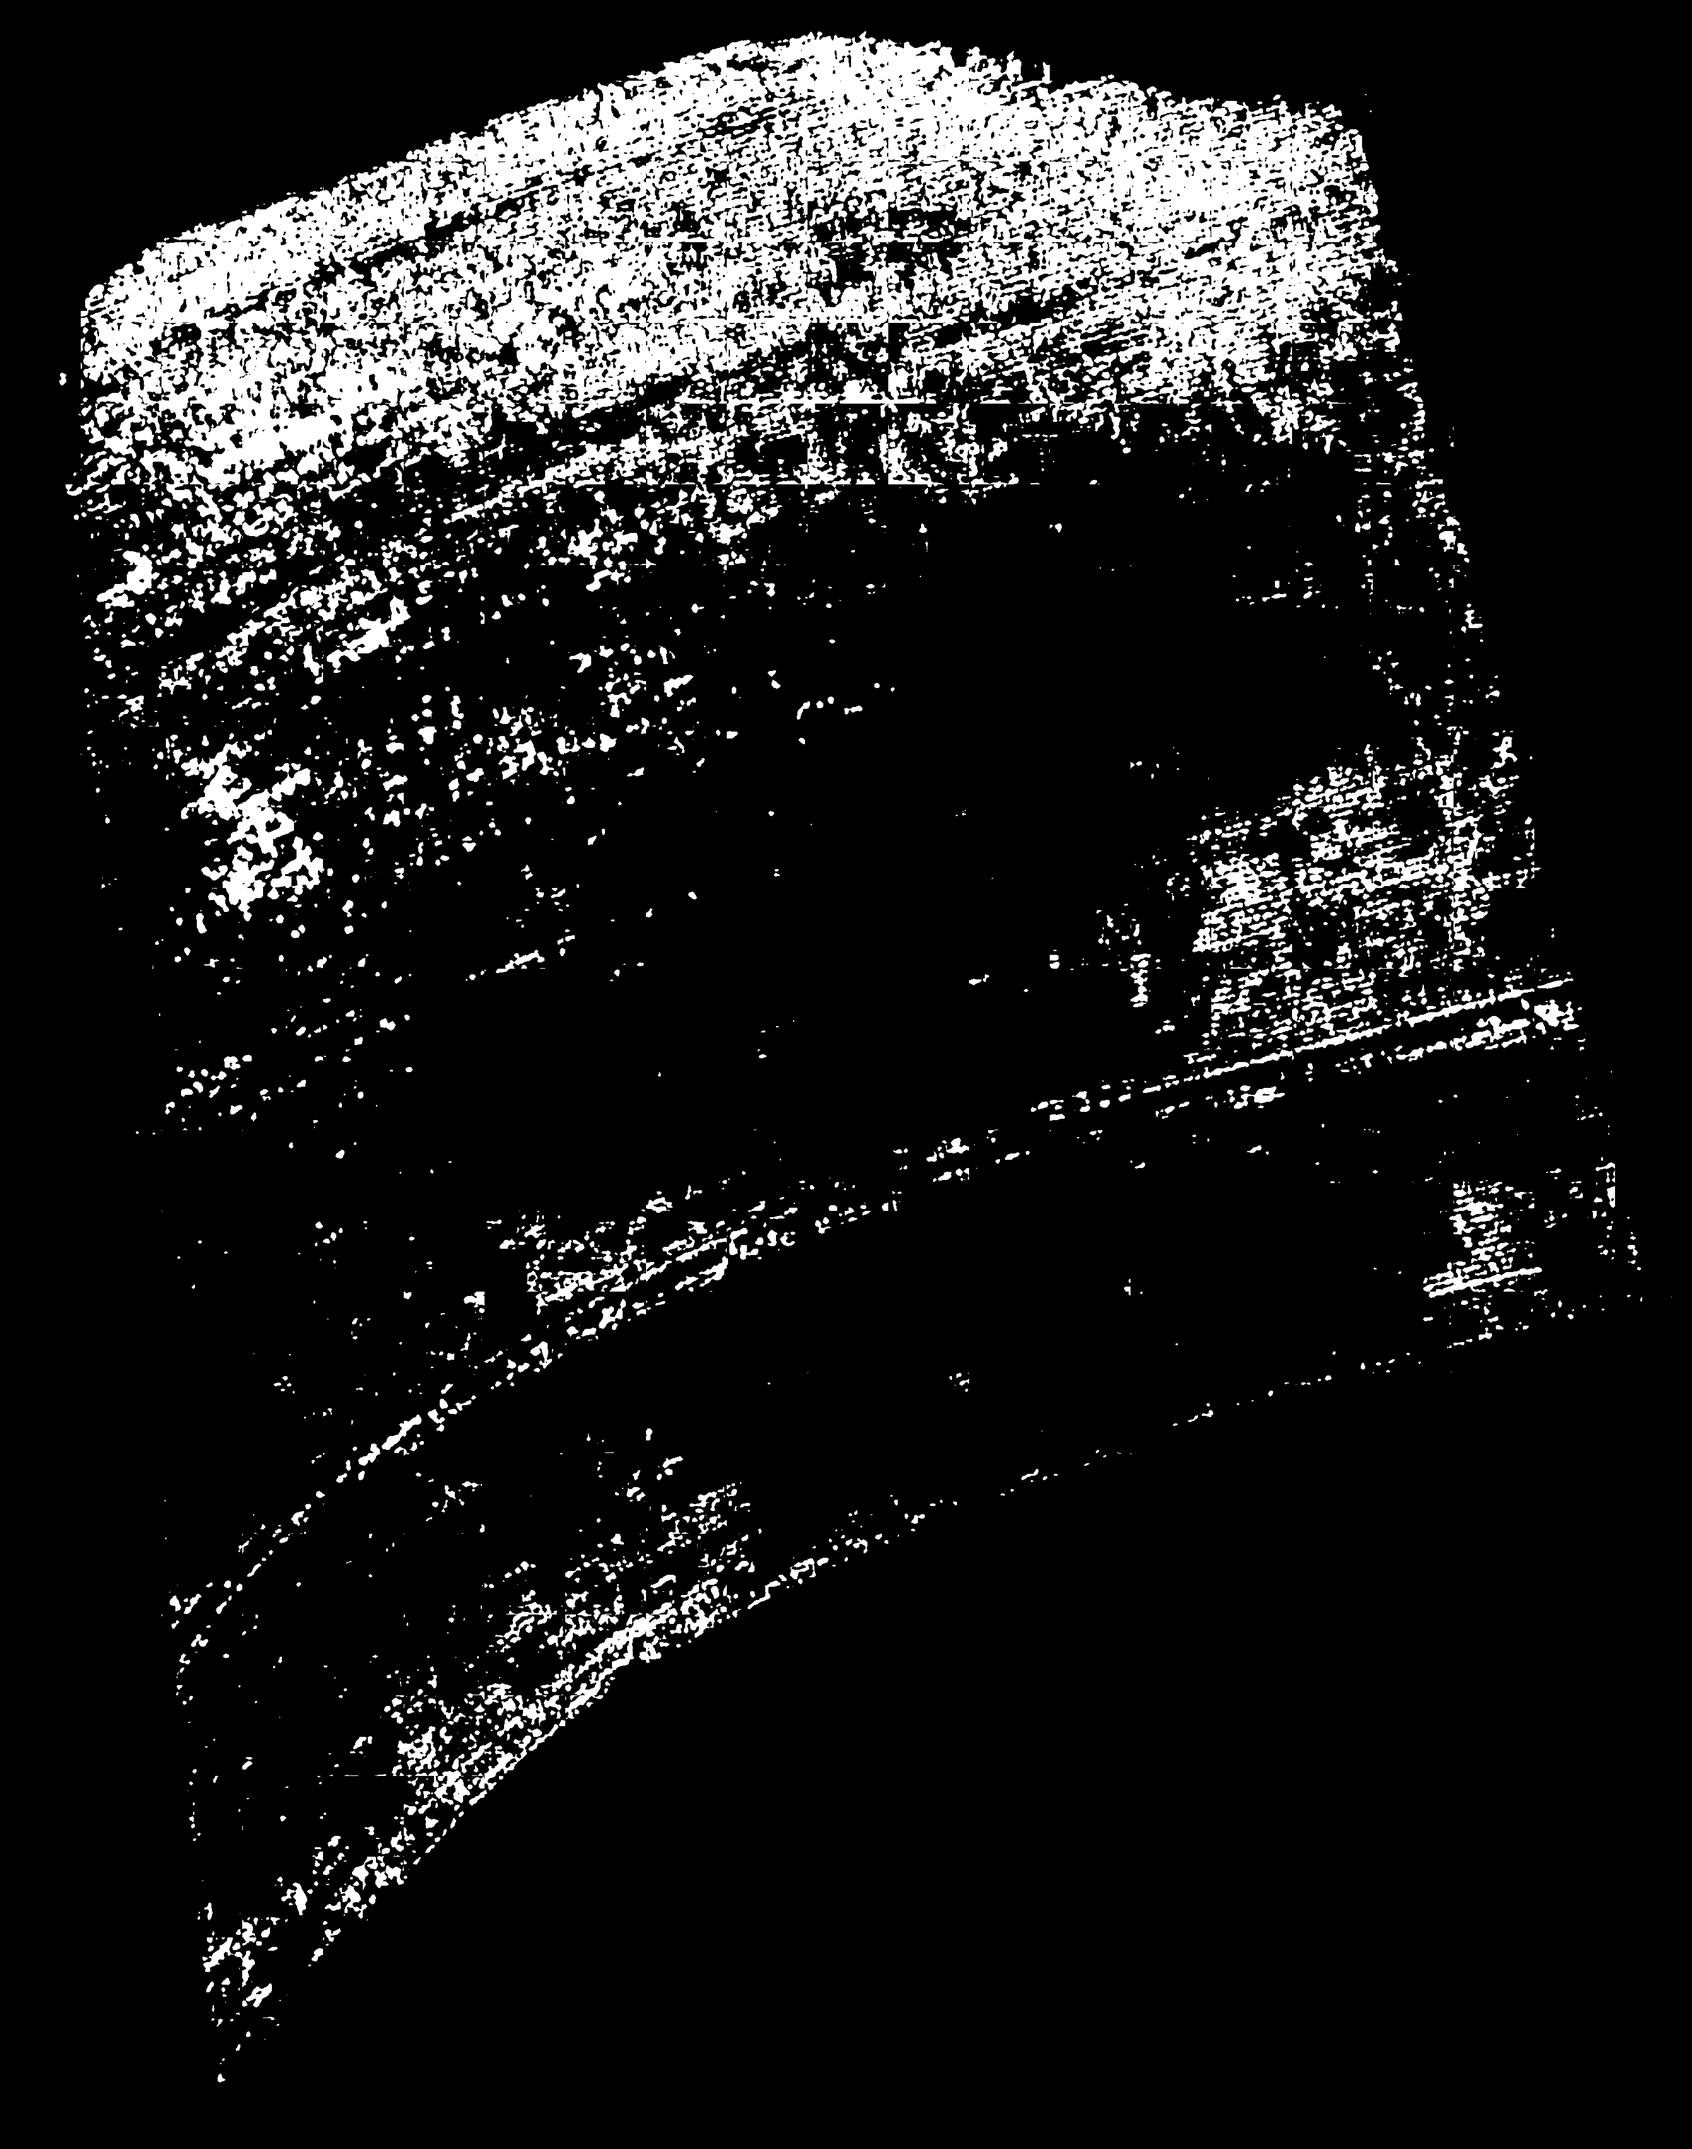
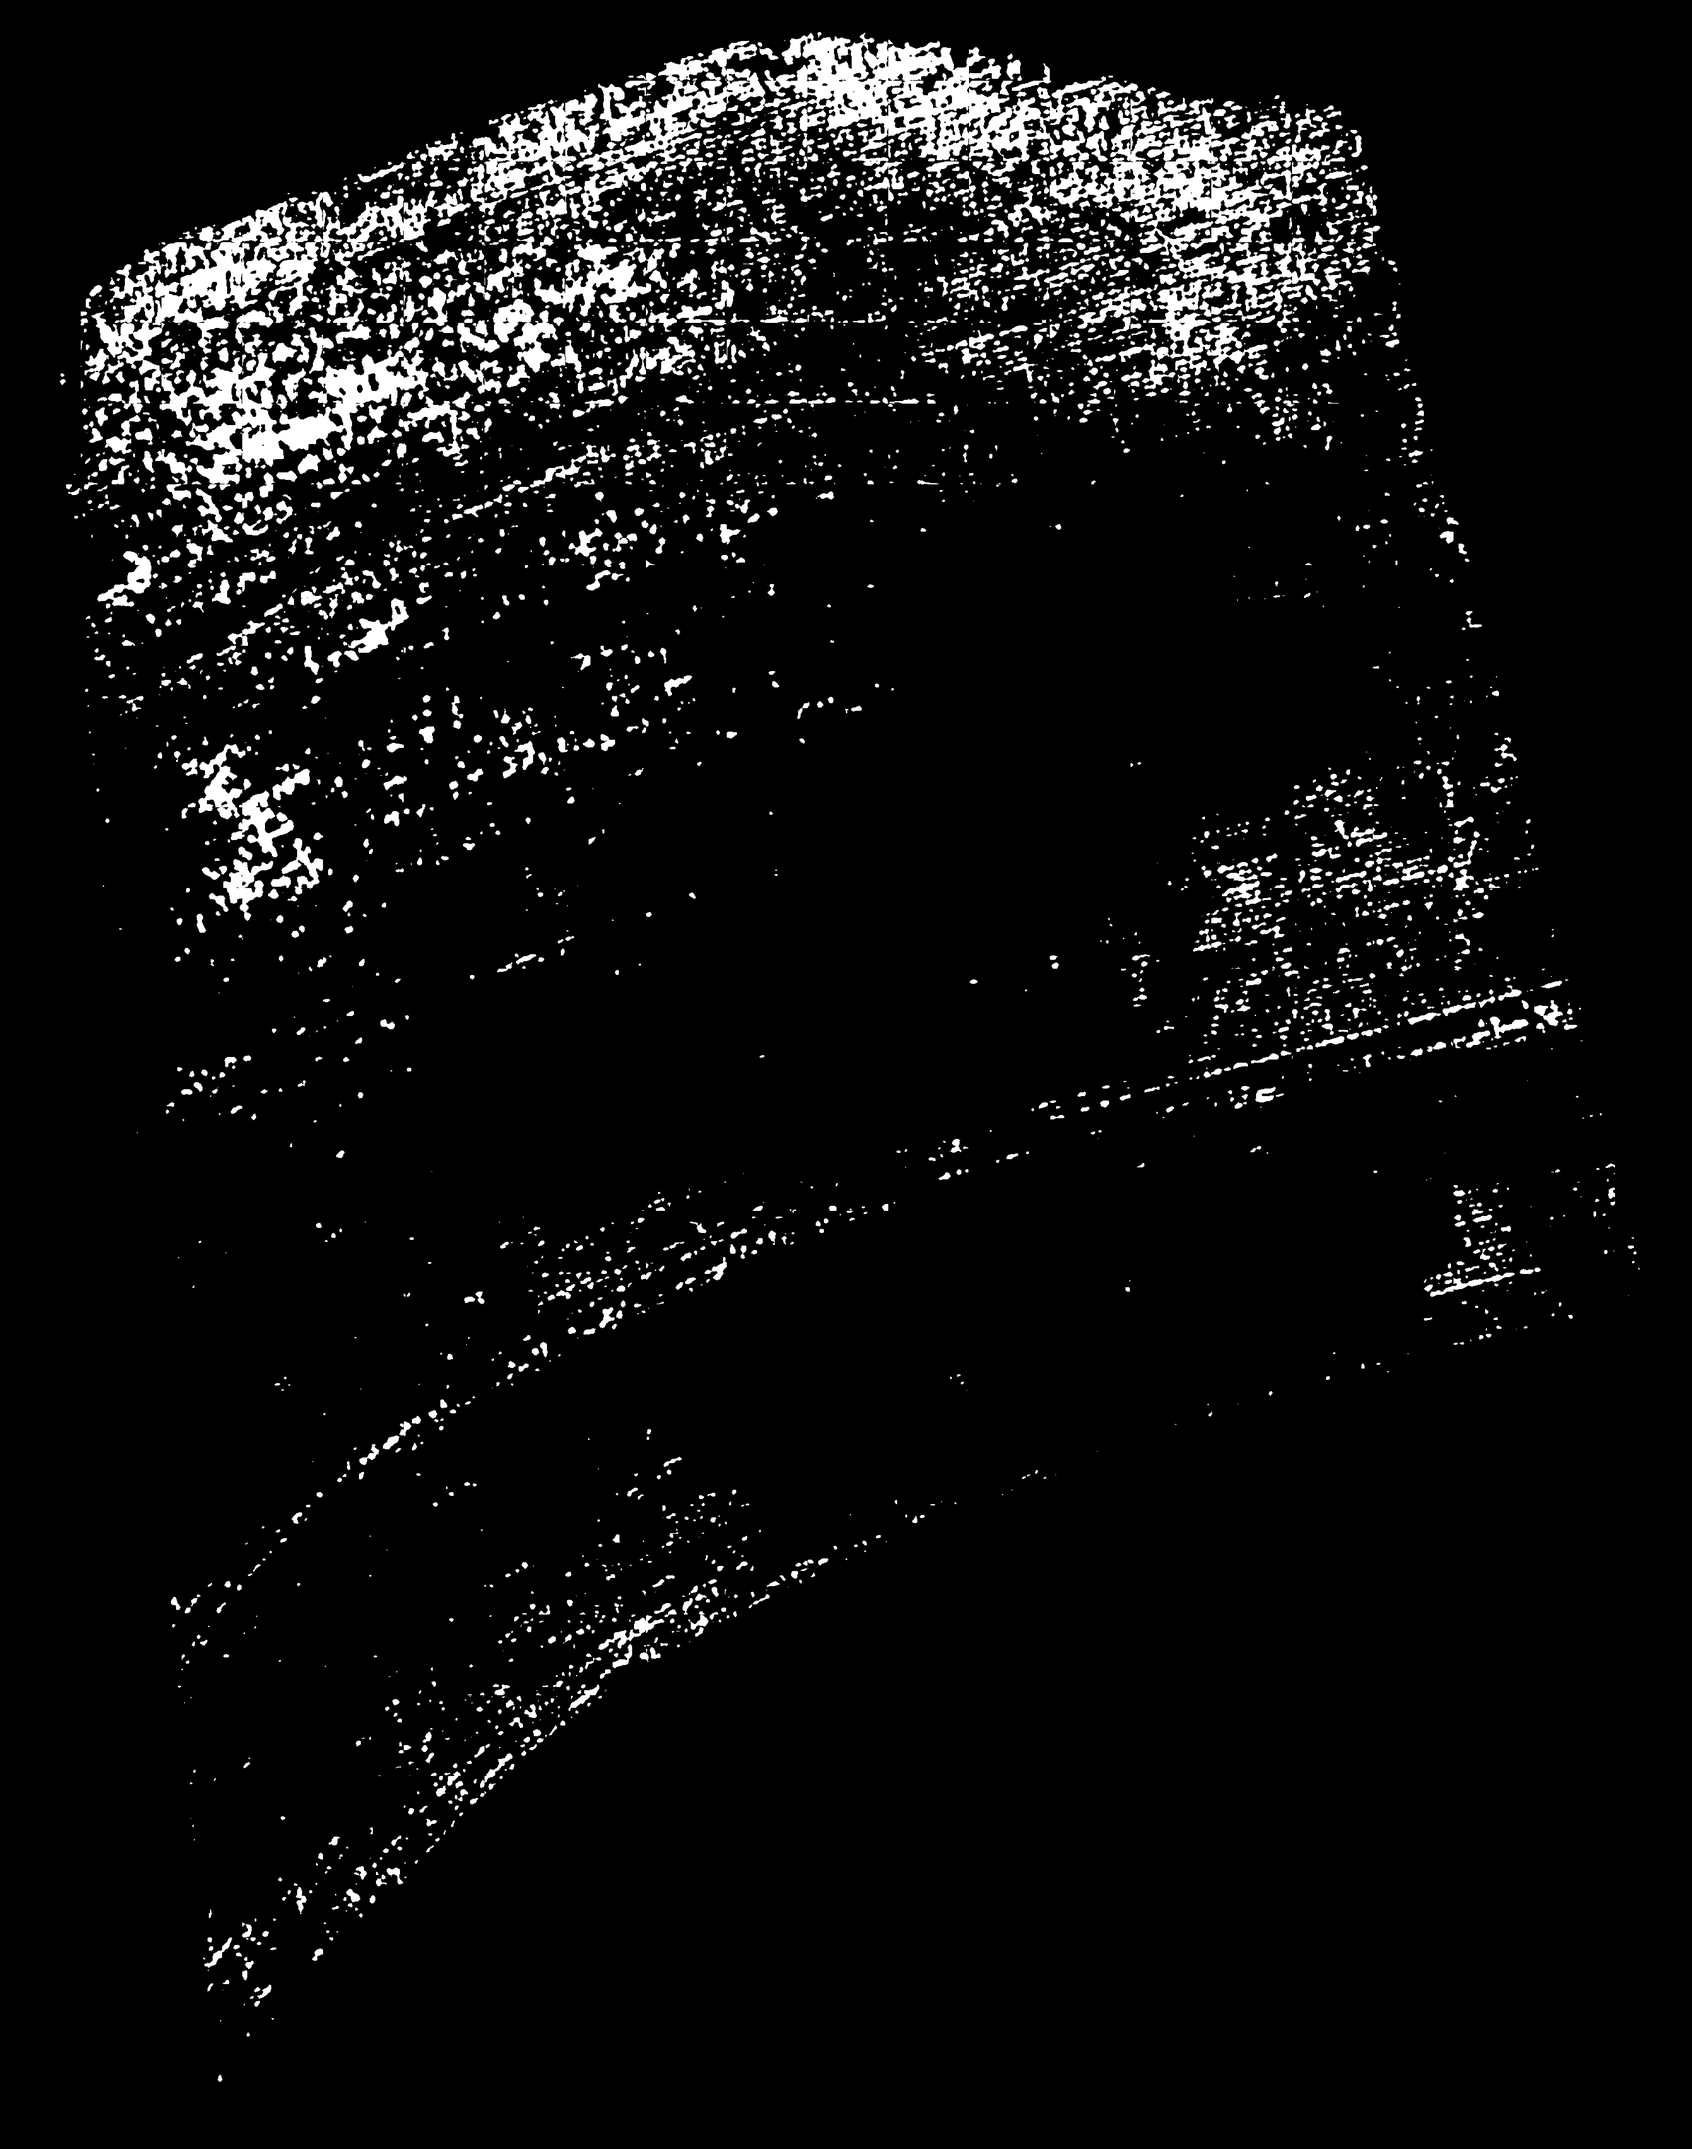
Atualizando documentação

diff --git a/README.md b/README.md
@@ -8,7 +8,8 @@ Ele é etruturado em 4 etapas:
 - treinamento do modelo;
 - validação (inferência utilizando modelo treinado).
 
-## Preparação dos Dados
+###
+## Quebra de imagem em blocos
 
 ### Informações sobre dados utilizados
 
@@ -46,6 +47,7 @@ Após análise da imagem `Orthomosaico_roi.tif` no QGIS, foi possível observar 
     - STATISTICS_STDDEV=31.94749790798
     - STATISTICS_VALID_PERCENT=100
 
+Os dados extraídos indicam que não há necessidade de normalização e prcessamentos adicionais nas imagens, dado que os valores dos pixels estão entre 0 e 255 e não há dados inválidos. Pode-se observar que há 4 bandas na imagem, porém serão utilizados somente as 3 primeiras, que representam os canais RGB.
 ### Utilização do script para subdivisão da imagem
 
 Para subdividir a imagem em subimagens, basta executar o seguinte comando:
@@ -54,7 +56,17 @@ Para subdividir a imagem em subimagens, basta executar o seguinte comando:
     python divide_orthomosaic.py --input </path/to/orthomosaic.tif> --output </path/to/output/dir/>
 ```
 
-onde `</path/to/orthomosaic.tif>` deve indicar o caminho para a imagem e `</path/to/output/dir/>` o diretório onde as imagens serão salvas.
+onde `--input` deve indicar o caminho para a imagem e `--output` o diretório onde as imagens serão salvas.
+
+### Exemplo de imagens subdivididas
+
+
+![](doc/image_3.png)   ![](doc/image_39.png)  ![](doc/image_40.png) ![](doc/image_54.png)
+
+![](doc/image_194.png)   ![](doc/image_195.png)  ![](doc/image_198.png) ![](doc/image_199.png)
+
+![](doc/image_200.png)   ![](doc/image_201.png)  ![](doc/image_202.png) ![](doc/image_203.png)
+
 
 ## Geração de Dataset
 
@@ -63,10 +75,97 @@ Para gerar o dataset com máscaras de segmentação são utilizadas as subimagen
 ```bash
    python binarize_images.py --input </path/to/images/dir> --output </path/to/segmented/dir/>
 ```
-onde `</path/to/images/dir>` deve indicar o caminho para o diretório das subimagens e `</path/to/segmented/dir/>` o diretório onde as máscaras serão salvas.
+onde `--input` deve indicar o caminho para o diretório das subimagens e `--output` o diretório onde as máscaras serão salvas.
 
-## Treinamento do Modelo
+### Exemplo de imagens e respectivas máscaras
 
-## Validação
+Imagem RGB            |  Máscara (ground truth)
+:-------------------------:|:-------------------------:
+![](doc/image_3.png)  |  ![](doc/mask_image_3.png)
+
+Imagem RGB            |  Máscara (ground truth)
+:-------------------------:|:-------------------------:
+![](doc/image_54.png)  |  ![](doc/mask_image_54.png)
+
+Imagem RGB            |  Máscara (ground truth)
+:-------------------------:|:-------------------------:
+![](doc/image_201.png)  |  ![](doc/mask_image_201.png)
+
+
+## Implementação e Treinamento de Rede Neural
+
+Para treinar um modelo de segmentação semântica para vegetação, foi selecionado um modelo pré-treinado, especificamente o modelo DeepLabV3+ com backbone da ResNet50. Para isto, fram utilizadas as blibliotecas Tensorflow e Keras. Foi utilizado o otimizador Adam e as métricas Intersection over Union (IoU) e acurácia para avaliar o treinamento do modelo. 
+
+### Parâmetros de treinamento
+
+- Tamanho das imagens: 256x256
+- Batch Size: 32
+- Épocas: 200
+- Imagens de treinamento: 408
+- Imagens de validação: 72
+- Otimizador: Adam
+- Rede pré-treinada: DeepLabV3+ com ResNet50 como backbone
+- Métricas de avaliação: BinaryIoU e Accuracy
+
+Algumas destas configurações, tais como batch size, épocas, taxa de divisão (validação/treinamento), dentre outras, podem ser configuradas em `config/config.py`.
+
+### Estrutura do código
+
+- `net/resnet50.py`: implementa classe `SegmentationResnet50`, responsável por agrupar diferentes funções para carregar modelo pré-treinado, carregar dataset, salvar modelo, gerar inferências a partir de imagens, etc.
+- `config/config.py`: agrupa parâmetros de treinamento e outras configurações;
+- `train_model.py`: gerencia parâmetros de execução, instancia classe `SegmentationResNet50`, treina e salva o modelo.
+
+### Treinamento
+
+Para realizar o treinamento do modelo e salvá-lo, execute o seguinte comando:
+
+```bash
+   python train_model.py --rgb </path/to/images/dir> --groundtruth </path/to/segmented/dir/> --modelpath </path/to/model.h5>
+```
+
+onde `--rgb` indica o diretório com dataset RGB, `--groundtruth` as respectivas máscaras do dataset, e `--modelpath` diretório/nome do modelo a ser salvo ao final do treinamento. 
+
+### Resultados de treinamento
+
+Durante o treinamento do modelo, algumas métricas foram calculadas, tanto para dados de treino quanto de validação. As métricas utilizadas foram Acurácia e BinaryIoU. Esta última visa avaliar o quanto a inferência é similar ao ground truth.
+
+
+
+Acurácia            |  BinaryIoU
+:-------------------------:|:-------------------------:
+![](doc/acuracia.png)  |  ![](doc/iou.png)
+
+
+Note que, em dado momento, por volta da época 126, as métricas se estabilizam, com acurácia chegando a aproximadamente 94,43% e BinaryIoU em 87,82%, ambas nos dados de validação.
+
+## Inferência do Modelo
+
+Após o treinamento do modelo, é possível carregar e utilizar os pesos treinados para segmentação de imagens com vegetação. Para isto, é importante respeitar a mesma escala utilizada para treinamento. Imagens com resoluções baixas podem não ter resultados precisos.
+
+Apesar das imagens utilizadas para treinamento da rede possuirem dimensões de 256x256 pixels, é possível inferir imagens de dimensões superiroes. Para isto, o algoritmo de inferência faz a leitura da imagem em janelas menores e realiza a predição a partir destas subimagens. Antes de executar a operação em questão, uma matriz de mesma dimensão da imagem de entrada é inicializa com valores zerados. Conforme o algoritmo realiza o janelamento e a predição, a matriz auxiliar é preenchida com as máscaras resultantes. Ao final, essa matriz é salva como uma imagem binária. 
+
+Para binarizar a 
+
+### Execução da inferência
+
+Para executar a inferência e gerar uma máscara segmentada para vegetações, basta executar:
+
+```bash
+   python model_inference.py --rgb </path/to/image.png> --modelpath </path/to/model.h5> --output </path/to/segmented/image.png>
+```
+
+onde `--rgb` indica a imagem a ser predita, `--modelpath` o caminho do modelo previamente treinado, e `--output` diretório/nome que a máscara gerada deverá ter ao ser salva. 
+
+### Resultado com imagem ortomoisaica de canavial
+
+A partir de uma imagem obtida em [lapix.ufsc.br/wp-content/uploads/2019/05/sugarcane2.png](https://lapix.ufsc.br/wp-content/uploads/2019/05/sugarcane2.png), foi possível testar o modelo treinado. Assim como descrito anteriormente, a imagem é subdidivida em subimagens e a inferência é realizada por janelamento. O modelo gera valores entre 0 e 1 para cada pixel da imagem, sendo assim, é necessário binarizar o resultado para gerar uma máscara binária. O valor do limiar escolhido foi de 0.9, que pode ser configurado em `config/config.py`.
+
+Abaixo, é possível visualizar a imagem de teste e respectiva máscara obtida ao ser analisada pela rede treinada. O resultado obtido é bastante robusto, ainda mais considerando as diferenças entre imagens utilizadas para treinamento e a imagem de teste.
+
+Imagem de Teste            |  Segmentação obtida
+:-------------------------:|:-------------------------:
+![](doc/sugarcane2.png)  |  ![](doc/result.png)
+
+
 
 ## Discussão sobre o Desafio
